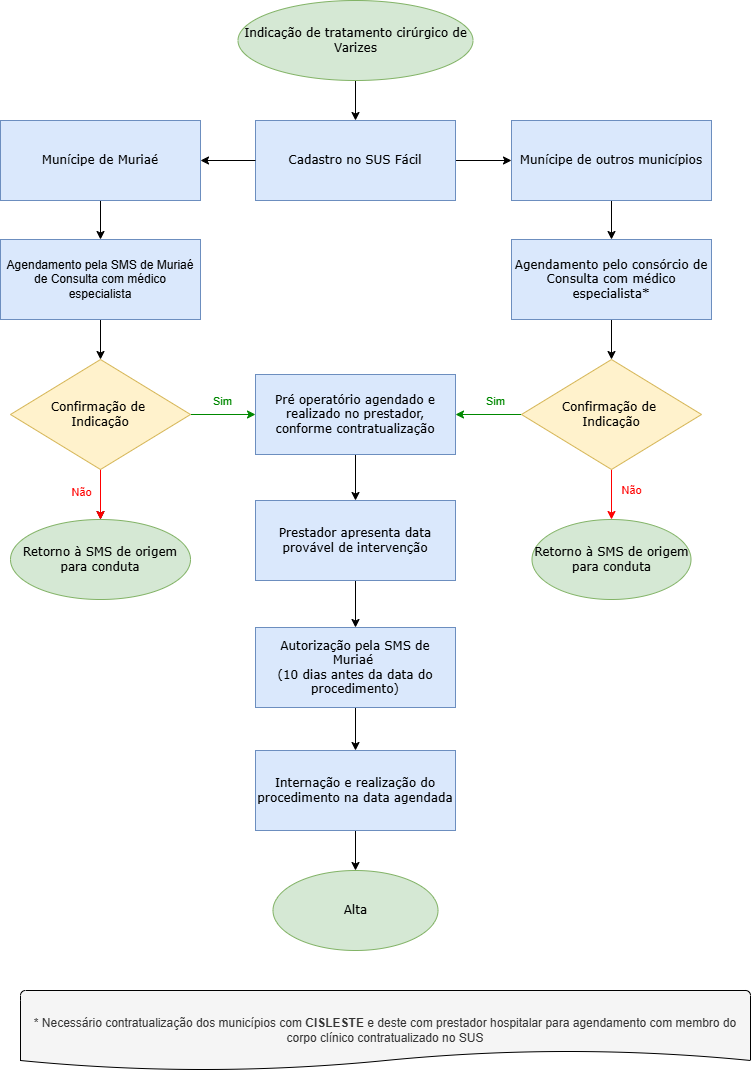
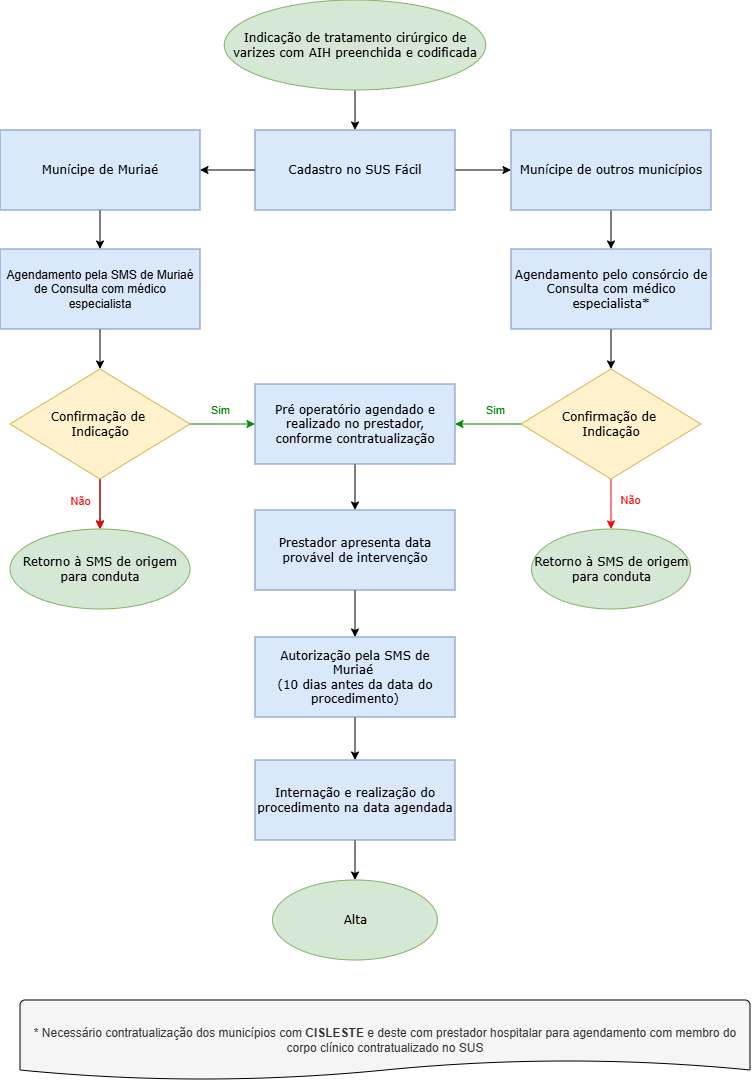
chore: renomeia imagens e ajusta estrutura de fluxos

diff --git a/src/app/fluxos-assistenciais/urologia/page.js b/src/app/fluxos-assistenciais/urologia/page.js
@@ -8,8 +8,7 @@ export default function UrologiaPage() {
     <div className="urologia-container">
       {/* Título principal */}
       <h1 className="urologia-titulo">Urologia</h1>
-
-      {/* Texto explicativo */}
+      
       <p className="urologia-texto">
         Cálculo renal: prevenir é o melhor remédio! O cálculo renal, conhecido
         como pedra nos rins, é uma das doenças urológicas mais comuns e pode
@@ -32,7 +31,7 @@ export default function UrologiaPage() {
         <Image
           src="/img/fluxos-assistenciais/urologia/fluxo.png"
           alt="Fluxo Assistencial Urologia"
-          width={800}
+          width={820}
           height={600}
           className="urologia-fluxo-img"
         />